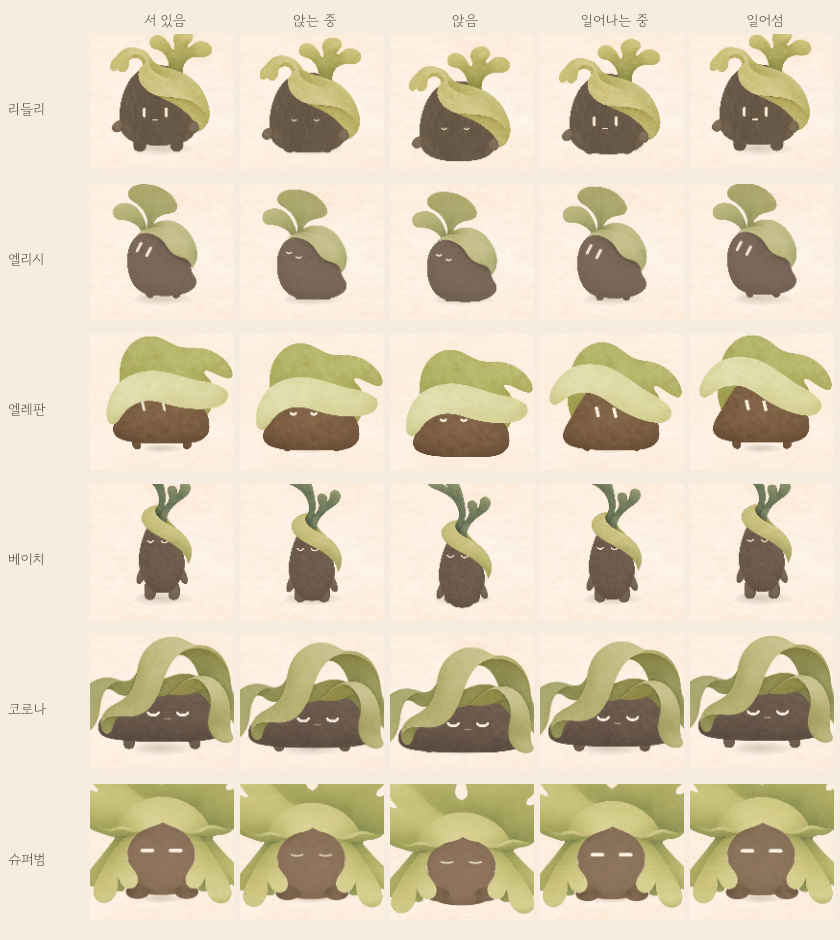
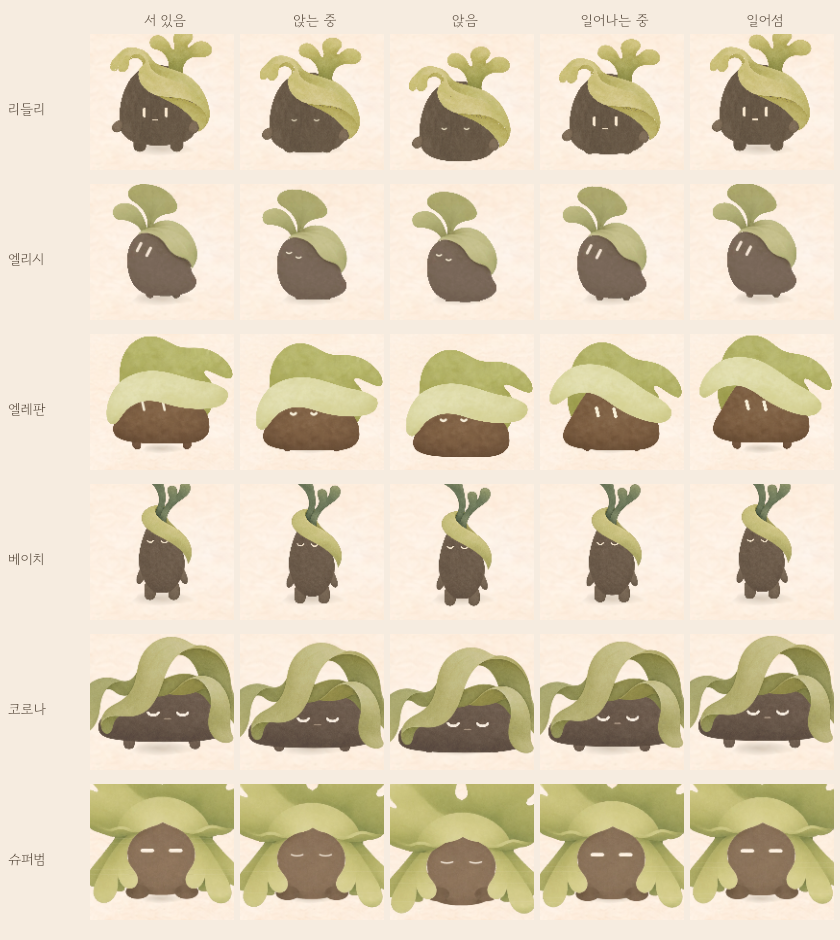
0.8.7: 베이치는 내려앉지 않고 발을 보인 채 눈 감고 앉기
Claude-Session: https://claude.ai/code/session_01AkSebmy3Y1v8yPfHbxXfQs

diff --git a/app/src/main/assets/web/species-rig.js b/app/src/main/assets/web/species-rig.js
@@ -77,7 +77,7 @@ function ellisiiActor(c,x,y,t,p){const d=data.bonbon,g=p.growth??.65,m=p.mode||'
  if(layer('Leaf')){const lift=still?(rest?-.01:0):walk?Math.abs(beat)*(run?.05:.035):m==='held'?Math.sin(t*6)*.06:rest?-.012+Math.sin(t*1.1)*.006:Math.sin(t*1.2)*.012;c.save();c.translate(ELLI.leafPivot.x,ELLI.leafPivot.y);c.rotate(lift);c.translate(-ELLI.leafPivot.x,-ELLI.leafPivot.y);draw(layer('Leaf'),true);c.restore();}
  c.restore();const toWorld=h=>({x:x+h.x*g,y:y+(h.y+bodyY-(p.lift||0))*g}),tip=toWorld({x:r[0]+3,y:-8});return{hands:[],tip,face:{x,y:y-16*g*.55},width:20.5*g,height:33*g};}
 function actor(c,k,x,y,t,p={}){if(k==='bonbon')return ellisiiActor(c,x,y,t,p);if(!data[k])return duriActor(c,k,x,y,t,p);const d=data[k],g=p.growth??.65,m=p.mode||'idle',walk=['walk','run','slow'].includes(m),beat=Math.sin(t*d.tempo*(m==='run'?12:8)),rest=p.rest??(['sleep','rest','moss'].includes(m)?1:0),bob=walk?-Math.abs(beat)*.65:m==='held'?Math.sin(t*7)*.22:Math.sin(t*1.4)*.09;
-const sit=p.sit||0,sd=k==='bosong'?2.6:1.4,sink=sit*(rest*.7+sd);c.save();c.translate(x,y);c.scale(g,g);c.translate(0,bob+rest*.7+sit*sd-(p.lift||0));c.rotate((p.tilt||0)+(m==='held'?Math.sin(t*5)*.075:0));if(d.hat)hatLayer(c,d,t,p,true);
+const sit=k==='bosong'?0:p.sit||0,sd=1.4,sink=sit*(rest*.7+sd);c.save();c.translate(x,y);c.scale(g,g);c.translate(0,bob+rest*.7+sit*sd-(p.lift||0));c.rotate((p.tilt||0)+(m==='held'?Math.sin(t*5)*.075:0));if(d.hat)hatLayer(c,d,t,p,true);
 for(let i=0;i<2;i++){const s=i?1:-1;c.save();c.translate(s*d.w*.25,(k==='bonbon'?-2.2:-3)-sink);c.rotate(walk?s*beat*.35:m==='held'?s*Math.sin(t*10+i)*.62:m==='splash'?s*Math.sin(t*7)*.25:0);img(c,d,d.legs[i],k==='bonbon'?-1.55:-1.9,k==='bonbon'?-2:-2.2,k==='bonbon'?3.1:3.8,k==='bonbon'?4.2:5.7);c.restore();}
 if(k==='bosong'){c.save();c.beginPath();c.ellipse(0,-d.h/2-1.5,d.w/2,d.h/2,0,0,Math.PI*2);c.clip();img(c,d,d.body,-d.w/2,-d.h-1.5,d.w,d.h);c.restore();}else img(c,d,d.body,-d.w/2,-d.h-1.5,d.w,d.h);
 // Texture eyelids are a separate animation overlay. The body texture never changes.

diff --git a/AGENTS.md b/AGENTS.md
@@ -4,7 +4,7 @@
 
 변경 내용(렌더·카드 문구만, 상태·난수·저장 불변):
 - **산책지 동작(`objects.js` `strollPose`, `scene.js`):** 산책지에 도착해 둘러보는 15~30초 동안 시간에 따라 바뀐다. 처음 4초는 두리번거리기(1.3초마다 좌우로 몸을 돌림) → 2.5초 고개를 숙여 풀 냄새 맡기(앞으로 기울이며 작게 끄덕임) → 다시 천천히 둘러보기 → 끝나기 7초 전부터 잠깐 앉아 쉬기 → 마지막 1초 일어서기. 카드 문구도 따라 바뀐다("숲 가장자리를 두리번거리고 있어요", "고개를 숙여 풀 냄새를 맡고 있어요", "숲 가장자리에 잠깐 앉아 쉬고 있어요"). 동작 줄이기에서는 몸을 돌리거나 기울이지 않는다.
-- **앉는 모습(사용자 "다른 애들도 엘리시처럼 앉으라고"):** 산책지에서 앉을 때 모든 친구가 엘리시처럼 발은 땅에 그대로 두고 몸이 발 위로 0.6초에 걸쳐 내려앉는다(리들리·베이치·코로나·엘레판은 발이 몸 뒤로 가려짐, 슈퍼범은 발이 몸 앞이라 보임). 일어설 때 같은 빠르기로 원래 높이로 돌아온다. 리그 옵션 `sit`(`rig.js`·`species-rig.js`·`neolbi.js`·`superbum.js`), 렌더 전용. 화면 `docs/qa-0.8.7/runtime/stroll-sit.png`.
+- **앉는 모습(사용자 "다른 애들도 엘리시처럼 앉으라고"):** 산책지에서 앉을 때 모든 친구가 엘리시처럼 발은 땅에 그대로 두고 몸이 발 위로 0.6초에 걸쳐 내려앉는다(리들리·코로나·엘레판은 발이 몸 뒤로 가려짐, 슈퍼범은 발이 몸 앞이라 보임). 베이치는 사용자 지정대로 내려앉지 않고 발을 보인 채 눈을 감은 쉬는 모습으로 앉는다. 일어설 때 같은 빠르기로 원래 높이로 돌아온다. 리그 옵션 `sit`(`rig.js`·`species-rig.js`·`neolbi.js`·`superbum.js`), 렌더 전용. 화면 `docs/qa-0.8.7/runtime/stroll-sit.png`.
 - **걷는 방향 보기:** 다른 친구들은 이미 걷는 쪽을 보고 걸었다(엔진 확인: 리들리 1,500초에 방향 11번 바뀜). 엘레판만 늘 같은 쪽을 봤는데, 이제 잎 우산을 펴거나 접는 중이 아닐 때는 엘레판도 걷는 쪽(그리고 산책지에서 두리번거리는 쪽)을 본다. 잎 우산 아래 친구 자리가 엘레판 오른쪽에 맞춰져 있어서 우산을 펼 때는 그대로 둔다.
 - 버전 0.8.7 / versionCode 65.
 

diff --git a/README.md b/README.md
@@ -4,7 +4,7 @@
 
 변경 내용(렌더·카드 문구만, 상태·난수·저장 불변):
 - **산책지 동작(`objects.js` `strollPose`, `scene.js`):** 산책지에 도착해 둘러보는 15~30초 동안 시간에 따라 바뀐다. 처음 4초는 두리번거리기(1.3초마다 좌우로 몸을 돌림) → 2.5초 고개를 숙여 풀 냄새 맡기(앞으로 기울이며 작게 끄덕임) → 다시 천천히 둘러보기 → 끝나기 7초 전부터 잠깐 앉아 쉬기 → 마지막 1초 일어서기. 카드 문구도 따라 바뀐다("숲 가장자리를 두리번거리고 있어요", "고개를 숙여 풀 냄새를 맡고 있어요", "숲 가장자리에 잠깐 앉아 쉬고 있어요"). 동작 줄이기에서는 몸을 돌리거나 기울이지 않는다.
-- **앉는 모습(사용자 "다른 애들도 엘리시처럼 앉으라고"):** 산책지에서 앉을 때 모든 친구가 엘리시처럼 발은 땅에 그대로 두고 몸이 발 위로 0.6초에 걸쳐 내려앉는다(리들리·베이치·코로나·엘레판은 발이 몸 뒤로 가려짐, 슈퍼범은 발이 몸 앞이라 보임). 일어설 때 같은 빠르기로 원래 높이로 돌아온다. 리그 옵션 `sit`(`rig.js`·`species-rig.js`·`neolbi.js`·`superbum.js`), 렌더 전용. 화면 `docs/qa-0.8.7/runtime/stroll-sit.png`.
+- **앉는 모습(사용자 "다른 애들도 엘리시처럼 앉으라고"):** 산책지에서 앉을 때 모든 친구가 엘리시처럼 발은 땅에 그대로 두고 몸이 발 위로 0.6초에 걸쳐 내려앉는다(리들리·코로나·엘레판은 발이 몸 뒤로 가려짐, 슈퍼범은 발이 몸 앞이라 보임). 베이치는 사용자 지정대로 내려앉지 않고 발을 보인 채 눈을 감은 쉬는 모습으로 앉는다. 일어설 때 같은 빠르기로 원래 높이로 돌아온다. 리그 옵션 `sit`(`rig.js`·`species-rig.js`·`neolbi.js`·`superbum.js`), 렌더 전용. 화면 `docs/qa-0.8.7/runtime/stroll-sit.png`.
 - **걷는 방향 보기:** 다른 친구들은 이미 걷는 쪽을 보고 걸었다(엔진 확인: 리들리 1,500초에 방향 11번 바뀜). 엘레판만 늘 같은 쪽을 봤는데, 이제 잎 우산을 펴거나 접는 중이 아닐 때는 엘레판도 걷는 쪽(그리고 산책지에서 두리번거리는 쪽)을 본다. 잎 우산 아래 친구 자리가 엘레판 오른쪽에 맞춰져 있어서 우산을 펼 때는 그대로 둔다.
 - 버전 0.8.7 / versionCode 65.
 

diff --git a/docs/Forest-0.8.7-Release.md b/docs/Forest-0.8.7-Release.md
@@ -4,7 +4,7 @@
 
 변경 내용(렌더·카드 문구만, 상태·난수·저장 불변):
 - **산책지 동작(`objects.js` `strollPose`, `scene.js`):** 산책지에 도착해 둘러보는 15~30초 동안 시간에 따라 바뀐다. 처음 4초는 두리번거리기(1.3초마다 좌우로 몸을 돌림) → 2.5초 고개를 숙여 풀 냄새 맡기(앞으로 기울이며 작게 끄덕임) → 다시 천천히 둘러보기 → 끝나기 7초 전부터 잠깐 앉아 쉬기 → 마지막 1초 일어서기. 카드 문구도 따라 바뀐다("숲 가장자리를 두리번거리고 있어요", "고개를 숙여 풀 냄새를 맡고 있어요", "숲 가장자리에 잠깐 앉아 쉬고 있어요"). 동작 줄이기에서는 몸을 돌리거나 기울이지 않는다.
-- **앉는 모습(사용자 "다른 애들도 엘리시처럼 앉으라고"):** 산책지에서 앉을 때 모든 친구가 엘리시처럼 발은 땅에 그대로 두고 몸이 발 위로 0.6초에 걸쳐 내려앉는다(리들리·베이치·코로나·엘레판은 발이 몸 뒤로 가려짐, 슈퍼범은 발이 몸 앞이라 보임). 일어설 때 같은 빠르기로 원래 높이로 돌아온다. 리그 옵션 `sit`(`rig.js`·`species-rig.js`·`neolbi.js`·`superbum.js`), 렌더 전용. 화면 `docs/qa-0.8.7/runtime/stroll-sit.png`.
+- **앉는 모습(사용자 "다른 애들도 엘리시처럼 앉으라고"):** 산책지에서 앉을 때 모든 친구가 엘리시처럼 발은 땅에 그대로 두고 몸이 발 위로 0.6초에 걸쳐 내려앉는다(리들리·코로나·엘레판은 발이 몸 뒤로 가려짐, 슈퍼범은 발이 몸 앞이라 보임). 베이치는 사용자 지정대로 내려앉지 않고 발을 보인 채 눈을 감은 쉬는 모습으로 앉는다. 일어설 때 같은 빠르기로 원래 높이로 돌아온다. 리그 옵션 `sit`(`rig.js`·`species-rig.js`·`neolbi.js`·`superbum.js`), 렌더 전용. 화면 `docs/qa-0.8.7/runtime/stroll-sit.png`.
 - **걷는 방향 보기:** 다른 친구들은 이미 걷는 쪽을 보고 걸었다(엔진 확인: 리들리 1,500초에 방향 11번 바뀜). 엘레판만 늘 같은 쪽을 봤는데, 이제 잎 우산을 펴거나 접는 중이 아닐 때는 엘레판도 걷는 쪽(그리고 산책지에서 두리번거리는 쪽)을 본다. 잎 우산 아래 친구 자리가 엘레판 오른쪽에 맞춰져 있어서 우산을 펼 때는 그대로 둔다.
 - 버전 0.8.7 / versionCode 65.
 

diff --git a/docs/IMPLEMENTATION_STATUS.md b/docs/IMPLEMENTATION_STATUS.md
@@ -4,7 +4,7 @@
 
 변경 내용(렌더·카드 문구만, 상태·난수·저장 불변):
 - **산책지 동작(`objects.js` `strollPose`, `scene.js`):** 산책지에 도착해 둘러보는 15~30초 동안 시간에 따라 바뀐다. 처음 4초는 두리번거리기(1.3초마다 좌우로 몸을 돌림) → 2.5초 고개를 숙여 풀 냄새 맡기(앞으로 기울이며 작게 끄덕임) → 다시 천천히 둘러보기 → 끝나기 7초 전부터 잠깐 앉아 쉬기 → 마지막 1초 일어서기. 카드 문구도 따라 바뀐다("숲 가장자리를 두리번거리고 있어요", "고개를 숙여 풀 냄새를 맡고 있어요", "숲 가장자리에 잠깐 앉아 쉬고 있어요"). 동작 줄이기에서는 몸을 돌리거나 기울이지 않는다.
-- **앉는 모습(사용자 "다른 애들도 엘리시처럼 앉으라고"):** 산책지에서 앉을 때 모든 친구가 엘리시처럼 발은 땅에 그대로 두고 몸이 발 위로 0.6초에 걸쳐 내려앉는다(리들리·베이치·코로나·엘레판은 발이 몸 뒤로 가려짐, 슈퍼범은 발이 몸 앞이라 보임). 일어설 때 같은 빠르기로 원래 높이로 돌아온다. 리그 옵션 `sit`(`rig.js`·`species-rig.js`·`neolbi.js`·`superbum.js`), 렌더 전용. 화면 `docs/qa-0.8.7/runtime/stroll-sit.png`.
+- **앉는 모습(사용자 "다른 애들도 엘리시처럼 앉으라고"):** 산책지에서 앉을 때 모든 친구가 엘리시처럼 발은 땅에 그대로 두고 몸이 발 위로 0.6초에 걸쳐 내려앉는다(리들리·코로나·엘레판은 발이 몸 뒤로 가려짐, 슈퍼범은 발이 몸 앞이라 보임). 베이치는 사용자 지정대로 내려앉지 않고 발을 보인 채 눈을 감은 쉬는 모습으로 앉는다. 일어설 때 같은 빠르기로 원래 높이로 돌아온다. 리그 옵션 `sit`(`rig.js`·`species-rig.js`·`neolbi.js`·`superbum.js`), 렌더 전용. 화면 `docs/qa-0.8.7/runtime/stroll-sit.png`.
 - **걷는 방향 보기:** 다른 친구들은 이미 걷는 쪽을 보고 걸었다(엔진 확인: 리들리 1,500초에 방향 11번 바뀜). 엘레판만 늘 같은 쪽을 봤는데, 이제 잎 우산을 펴거나 접는 중이 아닐 때는 엘레판도 걷는 쪽(그리고 산책지에서 두리번거리는 쪽)을 본다. 잎 우산 아래 친구 자리가 엘레판 오른쪽에 맞춰져 있어서 우산을 펼 때는 그대로 둔다.
 - 버전 0.8.7 / versionCode 65.
 

diff --git a/HANDOFF.md b/HANDOFF.md
@@ -665,3 +665,4 @@
 - 검증: `npm test` 327/327(`stroll` ST-05), `npm run test:ui` PASS(한 번), 화면 `docs/qa-0.8.7/runtime/stroll-poses.png`. 이후 로컬 검사는 바뀐 부분 관련 테스트만 돌리고 전체는 CI에 맡긴다. Android 실기기 미검증.
 - 다음: 주워 오기·바구니 구현(사용자 확인 후), 지역 해금(동쪽 호수) 기획.
 - 앉는 모습 추가(사용자 "엘리시 앉는 모션이 좋다고", "다른 애들도 엘리시처럼 앉으라고"): 리그 옵션 `sit`로 발은 땅에 두고 몸만 내려앉음(`scene.js` `v.sit` 0.6초 전환, `rig.js`·`species-rig.js`·`neolbi.js`·`superbum.js`). 처음 시도(바닥 기준 잘라 내기·다리 눌러 그리기)는 친구가 사라지거나 파묻혀 보여 버렸다. 화면 `docs/qa-0.8.7/runtime/stroll-sit.png`.
+- 베이치 앉기(사용자 그림 지정 "얘는 이 모션을 앉은 모션으로 해"): 베이치는 `sit`을 적용하지 않고 발을 보인 채 눈 감은 쉬는 모습으로 앉는다.
